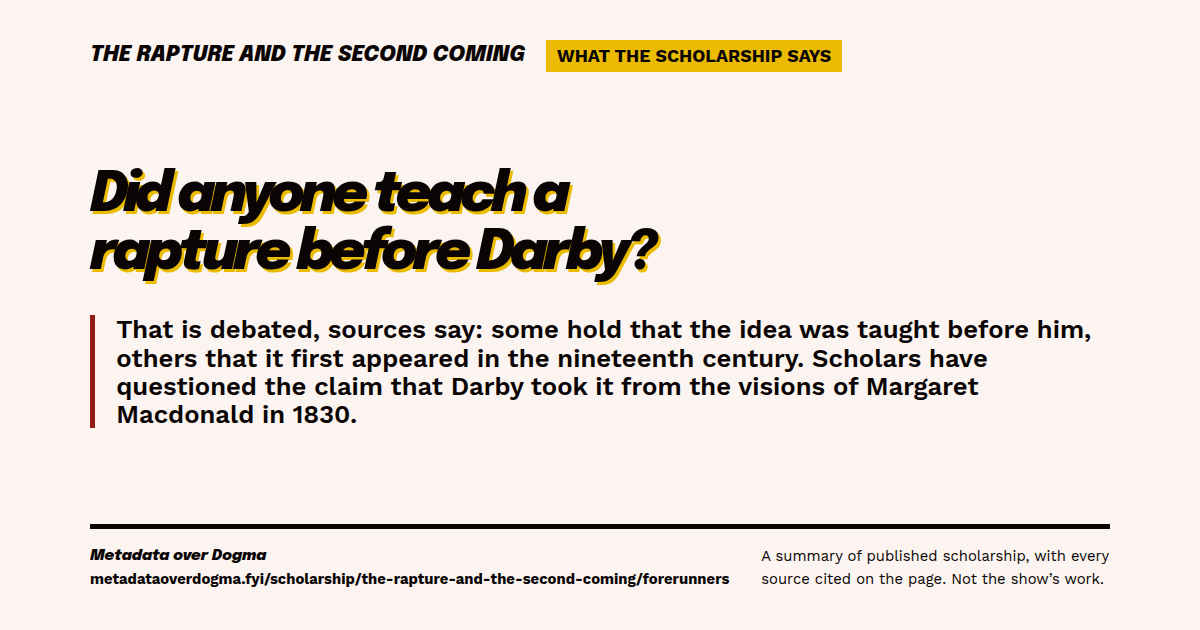
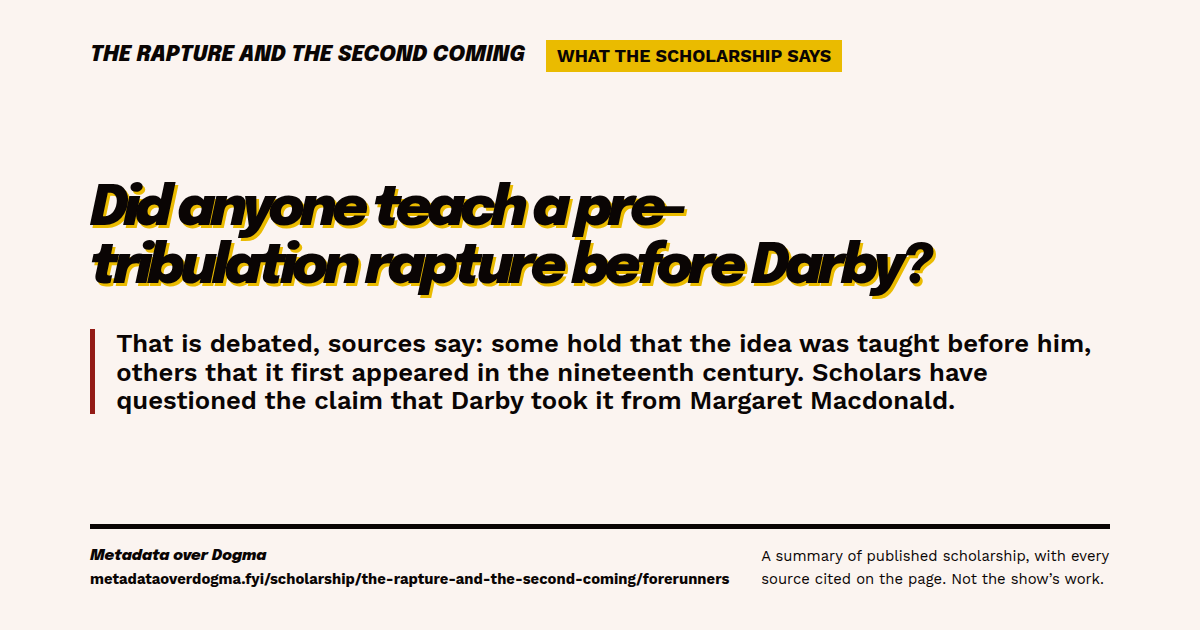
Second agent pass on the #251 rapture statements (#251)
Independent pass re-fetched every changed citation: 37/37 matched, no
cuts. Narrowed: forerunners asks about a pre-tribulation rapture and
drops the 1830 date from its short; six-day-war's short keeps only what
Smith and Durbin both say; preterism and parousia texts follow their
sources more closely. Lead resolutions recorded in the review file.

Changed region(s): [[0.0925, 0.5127, 0.925, 0.6937], [0.0617, 0.2714, 0.8017, 0.4825]]

diff --git a/hugo/content/scholarship/the-rapture-and-the-second-coming.md b/hugo/content/scholarship/the-rapture-and-the-second-coming.md
@@ -74,9 +74,9 @@ statements:
         read: 2026-11-27
   - id: forerunners
     group: "Where the idea came from"
-    question: "Did anyone teach a rapture before Darby?"
-    short: "That is debated, sources say: some hold that the idea was taught before him, others that it first appeared in the nineteenth century. Scholars have questioned the claim that Darby took it from the visions of Margaret Macdonald in 1830."
-    text: "David Malcolm Bennett, in the Evangelical Quarterly, reports a debate between those who believe the pretribulation rapture was taught in the early church and those who say it did not emerge until the nineteenth century, and notes the argument that Ephraem or Pseudo-Ephraem, and the medieval Fra Dolcino, taught it. Peter Lee's doctoral thesis on Darby says not all scholars agree that originality can be ascribed to Darby. Bennett finds that the sermon attributed to Pseudo-Ephraem has many Christians going through the tribulation, not raptured out of it, while the account of Dolcino's teaching, written by an opponent, shows one major parallel, a pretribulation rapture. Lee calls the case Tim LaHaye and Jerry Jenkins make for the Baptist pastor Morgan Edwards (1788) not conclusive, and says the account of the end by Manuel Lacunza, published in 1827, might well have influenced Darby, though the two differ on the rapture. Mark Sweetnam and Crawford Gribben say that, against Dave MacPherson's claim that Darby repackaged the utterances of Margaret Macdonald, more scholarly contributions have questioned any such relationship; Lee also disputes it. Pieter de Villiers reports the argument that Darby took the teaching from Macdonald, and Thomas Ice's claim for Edwards."
+    question: "Did anyone teach a pre-tribulation rapture before Darby?"
+    short: "That is debated, sources say: some hold that the idea was taught before him, others that it first appeared in the nineteenth century. Scholars have questioned the claim that Darby took it from Margaret Macdonald."
+    text: "David Malcolm Bennett, in the Evangelical Quarterly, reports a debate between those who believe the pretribulation rapture was taught in the early church and those who say it did not emerge until the nineteenth century, and notes the argument that Ephraem or Pseudo-Ephraem, and the medieval Fra Dolcino, taught it. Peter Lee's doctoral thesis on Darby says not all scholars agree that originality can be ascribed to Darby. Bennett finds that the sermon attributed to Pseudo-Ephraem has many Christians going through the tribulation, not raptured out of it, while the account of Dolcino's teaching, written by an opponent, shows one major parallel, a pretribulation rapture. Lee calls the case Tim LaHaye and Jerry Jenkins make for the Baptist pastor Morgan Edwards (1788) not conclusive, and says the account of the end by Manuel Lacunza, published in 1827, might well have influenced Darby, though the two differ on the rapture. Mark Sweetnam and Crawford Gribben say that, against Dave MacPherson's claim that Darby repackaged the utterances of Margaret Macdonald, more scholarly contributions have questioned any such relationship; Lee also disputes it. Pieter de Villiers reports the argument that Darby took the teaching from Macdonald, who claimed that a vision in 1830 had revealed it to her, and Thomas Ice's claim for Edwards."
     cites:
       - source: bennett-2008-eq-pseudo-ephraem
         locator: "p. 143, opening paragraph"
@@ -316,7 +316,7 @@ statements:
     group: "The New Testament passages"
     question: "What does the word parousia mean?"
     short: "“Presence” or “arrival”, sources say. In the Greek world the word was also used for the visit of a king or emperor to a city."
-    text: "Dale Martin's Yale lectures say parousia is a Greek term that just means “presence” or “coming”, and that it would refer to the time when a king or the emperor came to visit a city and its leading people went out to meet him and accompany him back in; he calls it a political, civic term. Sydney Tooth says parousia often simply means “presence” or “arrival”, as it does elsewhere in Paul's letters. Joseph Plevnik, in Biblica, says Hellenistic parousias depict citizens welcoming a royal visitor into their city. He reports that the scholar A. Deissmann took the word to be a technical term, that other scholars then read 1 Thessalonians 4:13–18 as a replica of imperial parousias, and that after J. Dupont's critique the arguments of Deissmann and E. Peterson could no longer be maintained."
+    text: "Dale Martin's Yale lectures say parousia is a Greek term that just means “presence” or “coming”, and that it would refer to the time when a king or the emperor came to visit a city and its leading people went out to meet him and accompany him back in; he calls it a political, civic term. Sydney Tooth says parousia often simply means “presence” or “arrival”, as it does elsewhere in Paul's letters. Joseph Plevnik, in Biblica, says Hellenistic parousias depict citizens welcoming a royal visitor into their city. He reports that the scholar A. Deissmann took the word to be a technical term; that, in the wake of an article by E. Peterson, other scholars read the coming of Christ in 1 Thessalonians 4:13–18 as a replica of Hellenistic imperial parousias; and that after J. Dupont's critique the arguments of Deissmann and Peterson could no longer be maintained."
     cites:
       - source: martin-rlst152-l23
         locator: "ch. 1 [00:00:00]"
@@ -494,7 +494,7 @@ statements:
     group: "The thousand years, preterism and Israel"
     question: "What is preterism?"
     short: "A way of reading Revelation as already fulfilled, for the most part, in the past. It is one of the main schools of reading the book, beside futurist and historicist readings."
-    text: "Ulrich Lehner's article in the Journal of Baroque Studies says that for preterists most of Revelation was already fulfilled, while futurists argued that only a small part had been, and that most Protestant interpreters adopted a historicist view that saw Christian history foretold in the book. He calls the Jesuit Luis de Alcázar's commentary the first preterist commentary on Revelation, reading almost the entire book as early church history, and says many interpreters of all denominations followed him. Carlos Molina's doctoral thesis at the University of Pretoria names four major schools of interpreting Revelation: preterism, futurism, historicism and idealism. John Noe, in the Journal of the Evangelical Theological Society, distinguishes full preterists, for whom Revelation concerned only events of the first century and was fulfilled in 70 CE in Christ's coming in the destruction of Jerusalem and the temple, from partial preterists; he says most, if not all, amillennialists, and postmillennialists too, take a partial-preterist approach, and that amillennialists generally oppose full preterism. Noe argues for a preterist-idealist reading himself. J. A. du Rand and Y. M. Song, in Acta Theologica, call the advocates of partial preterism a minority in research on Revelation, and describe two lines within it: a consistent partial preterism that reads the whole book as God's judgement on the apostate Jews in 70 CE, and a transitional one that takes the main theme of Revelation 12–19 to be God's judgement on Rome. Keith Mathison, writing for Ligonier Ministries, an international Christian discipleship organization, holds that if many of Revelation's prophecies concerned the imminent AD 70 destruction of Jerusalem, the book should be read in a basically preterist manner."
+    text: "Ulrich Lehner's article in the Journal of Baroque Studies says that for preterists most of Revelation was already fulfilled, while futurists argued that only a small part had been, and that most Protestant interpreters adopted a historicist view that saw Christian history foretold in the book. He calls the Jesuit Luis de Alcázar's commentary the first preterist commentary on Revelation, reading almost the entire book as early church history, and says many interpreters of all denominations followed him. Carlos Molina's doctoral thesis at the University of Pretoria names four major schools of interpreting Revelation: preterism, futurism, historicism and idealism. John Noe, in the Journal of the Evangelical Theological Society, distinguishes full preterists from partial preterists, and says most full preterists hold that Revelation concerned only events of the first century and was fulfilled in 70 CE in Christ's coming in the destruction of Jerusalem and the temple; he says most, if not all, amillennialists, and postmillennialists too, take a partial-preterist approach, and that amillennialists generally oppose full preterism. Noe argues for a preterist-idealist reading himself. J. A. du Rand and Y. M. Song, in Acta Theologica, say the principal advocates of partial preterism are a minority in contemporary research on Revelation, and describe two lines within partial preterism: a consistent partial preterism that reads the whole book as God's judgement on the apostate Jews in 70 CE, and a transitional one that takes the main theme of Revelation 12–19 to be God's judgement on Rome. Keith Mathison, writing for Ligonier Ministries, an international Christian discipleship organization, holds that if many of Revelation's prophecies concerned the imminent AD 70 destruction of Jerusalem, the book should be read in a basically preterist manner."
     cites:
       - source: lehner-2014-post-tridentine-revelation
         locator: "p. 26, section “Post-Reformation Interpreters”"
@@ -593,7 +593,7 @@ statements:
   - id: six-day-war
     group: "The thousand years, preterism and Israel"
     question: "Did the 1967 war matter to prophecy believers?"
-    short: "Yes, sources say. For many American evangelicals, Israel's expansion in 1967, including East Jerusalem, added to the prophetic significance of its founding in 1948, and many premillennialists saw fulfilled prophecy in these events and expected the rapture within a generation of them."
+    short: "Yes, sources say. Many American evangelicals, and many premillennialists, saw prophetic significance in Israel's founding in 1948 and in its expansion in 1967, including East Jerusalem."
     text: "Robert O. Smith's Baylor dissertation says that for many American evangelicals the prophetic significance of 1948 was augmented by Israel's expansion in 1967, including its occupation of East Jerusalem, the Old City and the Temple Mount. Sean Durbin's entry on premillennialism in the Critical Dictionary of Apocalyptic and Millenarian Movements says Israel's establishment in 1948 and its expansion in 1967 brought some historicism back into premillennialists' reading of prophecy, and that many took this as the fulfilment of prophecy and expected the rapture and Jesus's return within a generation. Tristan Sturm and Tom Albrecht's entry on Hal Lindsey in the same dictionary says the 1967 Six-Day War affirmed to Lindsey that God had set an apocalyptic timeline in motion. Frannie Comstock's Encyclopaedia Britannica article on Christian Zionism says Jerry Falwell was particularly galvanized by Israel's success in the war and its seizure of religious sites in Jerusalem's Old City, and that for some evangelicals the Jews had succeeded in the beginnings of an apocalyptic battle for God."
     cites:
       - source: smith-2010-baylor-christian-affinity-israel
